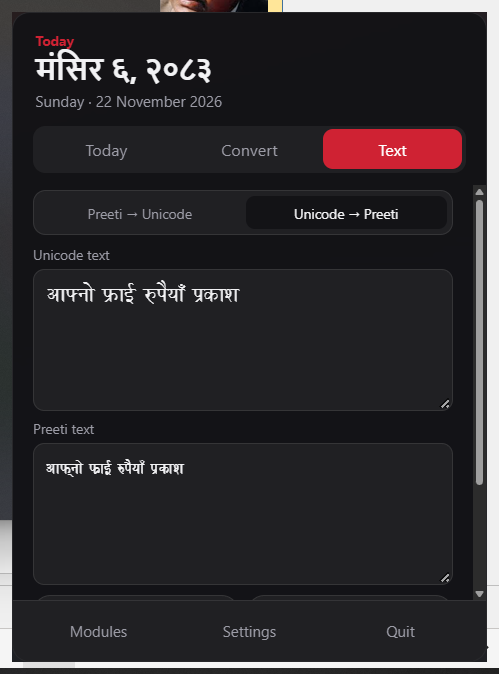
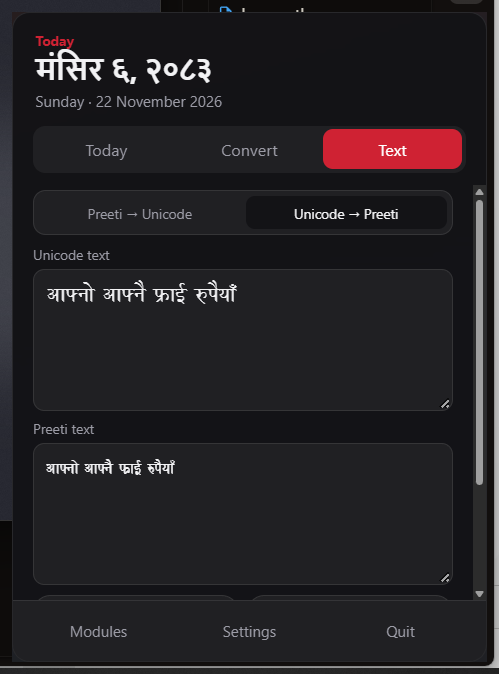
fix: draw the joined half pha glyph

diff --git a/crates/core/src/preeti.rs b/crates/core/src/preeti.rs
@@ -496,11 +496,11 @@ fn full_of(ch: char) -> Option<String> {
 }
 
 fn half_of(ch: char) -> String {
-    // फ has no half key that the legacy fonts draw as a half letter. `ˆ` and the
-    // private-use key map to फ् in some tables, but Sagarmatha draws ˆ as a
-    // circumflex, so the letter plus an explicit halant is the form that joins.
+    // फ has no ASCII half key that the legacy fonts draw as a joined half
+    // letter. `km\` shows a visible halant (आफ्नो); the report's own text uses
+    // the private-use key \uf000, which draws the joined आफ्नो.
     if ch == 'फ' {
-        return "km\\".to_string();
+        return "\u{f000}".to_string();
     }
     let halant = format!("{ch}\u{094d}");
     if let Some(key) = reverse_table().get(halant.as_str()) {

diff --git a/crates/core/tests/preeti.rs b/crates/core/tests/preeti.rs
@@ -213,12 +213,12 @@ fn punctuation_uses_preeti_keys() {
 }
 
 #[test]
-fn half_pha_joins_with_an_explicit_halant() {
-    // `ˆ` is a circumflex in Sagarmatha, not a half फ; `km\` is the form that
-    // draws आफ्नो correctly.
-    pair("cfkm\\gf]", "आफ्नो");
-    assert_eq!(unicode_to_preeti("आफ्नो").text, "cfkm\\gf]");
-    pair("cfkm\\g}", "आफ्नै");
+fn half_pha_uses_the_joined_glyph() {
+    // The fonts draw `km\` with a visible halant; their own documents use the
+    // private-use half glyph, which joins into आफ्नो.
+    assert_eq!(unicode_to_preeti("आफ्नो").text, "cf\u{f000}gf]");
+    assert_eq!(unicode_to_preeti("आफ्नै").text, "cf\u{f000}g}");
+    pair("cf\u{f000}gf]", "आफ्नो");
 }
 
 #[test]

diff --git a/README.md b/README.md
@@ -86,7 +86,7 @@ table it ships as much as on its code. NepaliToolkit supports BS 1975 to 2100,
 which is 1918-04-13 to 2044-04-13 in the Gregorian calendar. Years after 2090
 have no published gazette yet, and the interface marks them as projected.
 
-Preeti conversion is checked against a corpus of 125 pairs in
+Preeti conversion is checked against a corpus of 127 pairs in
 `data/preeti-corpus.tsv`. Each pair was checked against an independent
 MIT-licensed converter where that converter covers the case; rows marked as
 extensions are explained in the file. `cargo test` replays each one in both
@@ -95,15 +95,15 @@ directions. The key table is factual layout data; its source and hash are in
 
 ## Install
 
-The 0.1.9 alpha ships as a per-user installer and a portable zip for Windows 10
+The 0.1.10 alpha ships as a per-user installer and a portable zip for Windows 10
 and 11, 64-bit.
 
-- [Installer](https://github.com/NepaliTools/NepaliTools/releases/download/v0.1.9-alpha/NepaliToolkit-0.1.9-alpha-win64-setup.exe)
+- [Installer](https://github.com/NepaliTools/NepaliTools/releases/download/v0.1.10-alpha/NepaliToolkit-0.1.10-alpha-win64-setup.exe)
   installs for the current user, adds a Start Menu shortcut and an uninstaller,
   and needs no administrator.
-- [Portable zip](https://github.com/NepaliTools/NepaliTools/releases/download/v0.1.9-alpha/NepaliToolkit-0.1.9-alpha-win64-portable.zip)
+- [Portable zip](https://github.com/NepaliTools/NepaliTools/releases/download/v0.1.10-alpha/NepaliToolkit-0.1.10-alpha-win64-portable.zip)
   extracts and runs from any folder.
-- [Release notes and checksums](https://github.com/NepaliTools/NepaliTools/releases/tag/v0.1.9-alpha)
+- [Release notes and checksums](https://github.com/NepaliTools/NepaliTools/releases/tag/v0.1.10-alpha)
   cover both.
 - The build is unsigned, so Windows may show "Windows protected your PC". Choose
   More info, then Run anyway.
@@ -113,7 +113,7 @@ need the
 [Evergreen runtime](https://developer.microsoft.com/microsoft-edge/webview2/).
 The installer embeds the bootstrapper.
 
-0.1.9 adds the Text module and the in-place shortcut. Install it once; from then
+0.1.10 adds the Text module and the in-place shortcut. Install it once; from then
 on Settings has Check for updates. Open Settings, pick Stable, Beta or Alpha, then
 press Check: the app reads that channel's signed manifest from
 nepalitools.pages.dev, downloads the signed installer from GitHub Releases if a
@@ -260,7 +260,7 @@ More reading: [GLOSSARY](GLOSSARY.md), [ACCEPTANCE](ACCEPTANCE.md),
 
 ## Status
 
-0.1.9 alpha. Windows only, unsigned, and used daily by its author. The project is
+0.1.10 alpha. Windows only, unsigned, and used daily by its author. The project is
 not affiliated with the Government of Nepal or any calendar authority.
 
 ## License

diff --git a/ACCEPTANCE.md b/ACCEPTANCE.md
@@ -72,7 +72,7 @@ plus `cargo build --release -p nepalitoolkit` for the portable executable.
 | 41 | Legacy font variants | convert words that use the report's alternate keys | PASS. ¬ Ò ¢ Ý › < Ø Œ · ∙ ÷ Ü ˆ ¥ æ Æ all produce the word they appear in (भद्रपुर, सैद्धान्तिक, कठ्ठा, केन्द्र, ट्याक्टर, महत्व, नर्सिङ). 26 rows are marked `preeti` in the corpus. | tests; corpus |
 | 42 | Punctuation and digits | convert नेपाल/काठमाडौं, २०%, (क), १+२, नमस्ते। and २०८३ | PASS. Output uses `÷`, `Ü`, `-` `_`, `±`, `.` and Preeti digit keys, so a slash no longer renders as र or a percent as ५. | tests |
 | 43 | Text box fonts | open the Text module in both directions on a machine with Sagarmatha and Kalimati installed | PASS. The Preeti box draws with Sagarmatha and reads as Nepali (`k|sfz` appears as प्रकाश); the Unicode box draws with Kalimati. The labels still distinguish the sides. | `docs/evidence/panel-text-fonts.png`, `panel-text-fonts-reverse.png` |
-| 44 | Half फ renders | convert आफ्नो and आफ्नै, then look at the Preeti box | PASS. The output is `cfkm\gf]` and renders as आफ्नो in Sagarmatha. The previous `ˆ` key drew a circumflex, not फ्. | `docs/evidence/panel-text-afno.png`; test |
+| 44 | Half फ renders | convert आफ्नो and आफ्नै and look at the Preeti box | PASS. The output uses the fonts' own half-fa key and draws the joined आफ्नो. `km\` drew आफ्नो with a visible halant, and `ˆ` drew a circumflex. | `docs/evidence/panel-text-afno.png`; test |
 
 ## How the midnight check was run
 

diff --git a/docs/release-notes-0.1.10-alpha.md b/docs/release-notes-0.1.10-alpha.md
@@ -1,0 +1,38 @@
+# NepaliToolkit 0.1.10 alpha
+
+आफ्नो, joined the way the font draws it.
+
+## What changed
+
+0.1.9 wrote the half फ as फ plus an explicit halant. The font draws that with a
+visible halant (आफ्नो), not the joined letter.
+
+The converter now uses the fonts' own half-fa glyph, the same private-use key the
+source report uses in its text, so आफ्नो and आफ्नै draw joined. The corpus gained
+both words, and the Preeti box screenshot shows the joined form.
+
+## Update
+
+Open Settings, keep Alpha selected and press Check, then Install and restart.
+
+## Download
+
+- [Installer](https://github.com/NepaliTools/NepaliToolkit/releases/download/v0.1.10-alpha/NepaliToolkit-0.1.10-alpha-win64-setup.exe).
+  Per-user, no administrator.
+- [Portable zip](https://github.com/NepaliTools/NepaliToolkit/releases/download/v0.1.10-alpha/NepaliToolkit-0.1.10-alpha-win64-portable.zip).
+- [SHA256SUMS](https://github.com/NepaliTools/NepaliToolkit/releases/download/v0.1.10-alpha/SHA256SUMS.txt).
+
+Both need WebView2. The build is unsigned, so Windows may show "Windows protected
+your PC"; choose More info, then Run anyway.
+
+## Known limits
+
+- The half-fa key is a private-use character, so the copied Preeti text needs a
+  legacy font that maps it, as every document in this family does.
+- Some fonts use `m` after a ra-foot for a ligature that no public table
+  documents. Those few tokens keep a literal `m`.
+- Typographic dashes and curly quotes pass through unchanged.
+- The shortcut only preserves the text part of the clipboard.
+- The build is unsigned. Windows only; macOS is the next milestone.
+
+MIT. See [LICENSE](https://github.com/NepaliTools/NepaliToolkit/blob/main/LICENSE).

diff --git a/handoff.md b/handoff.md
@@ -12,7 +12,8 @@ plain HTML and CSS panel.
 
 | Version | Channel | Date | Notes |
 |---|---|---|---|
-| 0.1.9 | alpha | 2026-11-22 | Half फ joins correctly; fonts for both boxes. Current. |
+| 0.1.10 | alpha | 2026-11-22 | Joined half फ (आफ्नो); Preeti in Sagarmatha, Unicode in Kalimati. Current. |
+| 0.1.9 | alpha | 2026-11-22 | Half फ attempt with an explicit halant. Superseded. |
 | 0.1.8 | alpha | 2026-11-22 | Preeti in Sagarmatha, Unicode in Kalimati. |
 | 0.1.7 | alpha | 2026-11-22 | Real-document Preeti variants and punctuation. |
 | 0.1.6 | alpha | 2026-11-22 | Correct ra-foot and ru glyphs. |
@@ -81,7 +82,7 @@ password), `gh` with `repo` scope, and the site checkout at `..\nepalitools-site
    default branch tip, not the working tree; if the tag lands on the previous
    commit, move it with
    `gh api --method PATCH repos/NepaliTools/NepaliTools/git/refs/tags/<tag> -f sha=<sha> -F force=true`.
-6. Run `tools\release.ps1 -Version 0.2.0 -Channel alpha`. It builds, signs,
+6. Run `tools\release.ps1 -Version 0.2.1 -Channel alpha`. It builds, signs,
    writes the manifest and checksums, creates the release, and deploys the site.
 
 The updater key is the trust root. Losing it means existing installs cannot

diff --git a/wiki/Installation.md b/wiki/Installation.md
@@ -11,8 +11,8 @@
 
 ## Get the app
 
-Download the 0.1.9 alpha from the
-[release page](https://github.com/NepaliTools/NepaliTools/releases/tag/v0.1.9-alpha).
+Download the 0.1.10 alpha from the
+[release page](https://github.com/NepaliTools/NepaliTools/releases/tag/v0.1.10-alpha).
 
 - **Installer:** download the setup exe and run it. It installs for the current
   user, adds a Start Menu shortcut and an uninstaller, and needs no administrator.
@@ -23,7 +23,7 @@ Both need WebView2. The installer embeds the bootstrapper. The build is unsigned
 so SmartScreen may show "Windows protected your PC"; choose More info,
 then Run anyway.
 
-Older alphas cannot update themselves. Install 0.1.9 once; from then on Settings
+Older alphas cannot update themselves. Install 0.1.10 once; from then on Settings
 has Check for updates and the channel menu. The check is manual, the installer is
 signed, and it runs quietly and restarts the app. The portable build asks you to
 download the new zip instead.

diff --git a/data/SOURCES.md b/data/SOURCES.md
@@ -65,7 +65,7 @@ particular document.
 
 Rows that the oracle did not confirm were dropped rather than guessed, so the
 table covers the keys that round-trip in practice. `data/preeti-corpus.tsv`
-records 125 pairs. Each was checked against the oracle where the oracle covers the
+records 127 pairs. Each was checked against the oracle where the oracle covers the
 case; the rows where Preeti needs a convention of this project (the independent
 ऐ, mixed English, and the document variants) are marked in the file. `cargo test
 -p npt-core --test preeti` replays them in both directions.

diff --git a/CHANGELOG.md b/CHANGELOG.md
@@ -3,6 +3,14 @@
 All notable changes are recorded here. The format follows Keep a Changelog, and
 the project uses Semantic Versioning.
 
+## [0.1.10] - 2026-11-22
+
+### Fixed
+
+- Half फ now uses the fonts' own half glyph (the private-use key the source
+  report uses), so आफ्नो draws joined. 0.1.9 used फ plus an explicit halant,
+  which the font draws with a visible halant: आफ्नो.
+
 ## [0.1.9] - 2026-11-22
 
 ### Fixed
